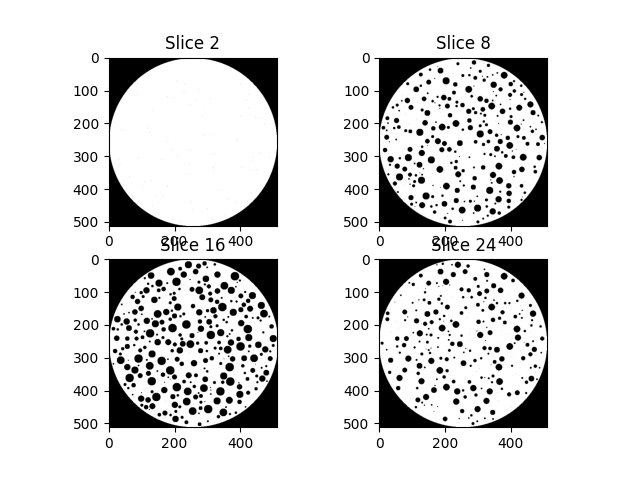
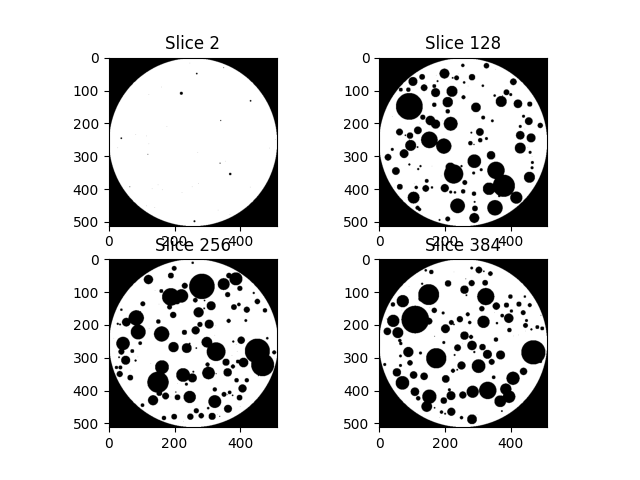
Two working methods for phantom generation

Changed region(s): [[0.1562, 0.4688, 0.4375, 0.875], [0.5938, 0.0625, 0.8438, 0.4688], [0.5938, 0.5, 0.875, 0.9062]]

diff --git a/phantoms/foam_generator.py b/phantoms/foam_generator.py
@@ -1,0 +1,123 @@
+import numpy as np
+import numpy.typing as npt
+import matplotlib.pyplot as plt
+from collections import namedtuple
+
+
+def cylinder(im: npt.NDArray, center, radius: float, intensity: float = 1):
+    assert len(im.shape) == 3, "Image must be 3D"
+    xx, yy, zz = im.shape
+    center_pixels = (int(round(center[0] * IMG_PIXELS)), int(round(center[1] * IMG_PIXELS)))
+    radius_pixels = int(round(radius * IMG_PIXELS))
+    x_coords, y_coords = np.meshgrid(np.arange(xx), np.arange(yy))
+    dist_squared = (x_coords - center_pixels[0]) ** 2 + (y_coords - center_pixels[1]) ** 2
+
+    mask = dist_squared <= radius_pixels ** 2
+    for z in range(zz):
+        im[:, :, z][mask] = intensity
+    return im
+
+
+def inside_foam(foam_center, sphere_center):
+    return (foam_center[0] - sphere_center[0])**2 + (foam_center[1] - sphere_center[1])**2 <= 0.5**2
+
+
+def distance_to_border(foam_center, foam_radius, sphere_center):
+    distance_radius_foam = foam_radius - np.sqrt((foam_center[0] - sphere_center[0]) ** 2 + (foam_center[1] - sphere_center[1]) ** 2)
+    distance_height = min(sphere_center[2], 1 - sphere_center[2])
+    return np.min([distance_radius_foam, distance_height]) - 1 / IMG_PIXELS
+
+
+def distances_centers(buffer, sphere_center, overlap: bool = False):
+    distance_border = distance_to_border((0.5, 0.5), 0.5, sphere_center)
+    if distance_border <= 0:
+        return None
+    distances = [distance_border]
+
+    for s in buffer:
+        dist_radius = np.sqrt((s.center_x - sphere_center[0]) ** 2 + (s.center_y - sphere_center[1]) ** 2 + (s.center_z - sphere_center[2]) ** 2)
+        dist = max(dist_radius - s.radius, 0)
+        if overlap:
+            dist = dist * (1 + np.random.rand() * 3)
+        if dist <= 0:
+            return None
+        distances.append(dist)
+    return distances
+
+
+def print_sphere(im, center, radius):
+    center_pixels = (int(round(center[0] * IMG_PIXELS)), int(round(center[1] * IMG_PIXELS)), int(round(center[2] * IMG_PIXELS)))
+    radius_pixels = int(round(radius * IMG_PIXELS))
+
+    for z in range(center_pixels[2] - radius_pixels, center_pixels[2] + radius_pixels + 1):
+        for x in range(center_pixels[0] - radius_pixels, center_pixels[0] + radius_pixels + 1):
+            for y in range(center_pixels[1] - radius_pixels, center_pixels[1] + radius_pixels + 1):
+                if (x - center_pixels[0])**2 + (y - center_pixels[1])**2 + (z - center_pixels[2])**2 <= radius_pixels**2:
+                    im[x][y][z] = 0
+    return im
+
+
+NUM_SHPERES = 5000
+
+IMG_PIXELS = 512
+image = np.zeros((IMG_PIXELS, IMG_PIXELS, IMG_PIXELS))
+
+PROB_OVERLAP = 0.1
+sphere = namedtuple("sphere", ["center_x", "center_y", "center_z", "radius"])
+
+# Generate the big cylinder
+image = cylinder(image, (0.5, 0.5), 0.5, intensity=1)
+print("Finished cylinder")
+
+buffer = []
+generated_spheres = 0
+
+while generated_spheres < NUM_SHPERES:
+    sphere_center = np.random.uniform(2 / IMG_PIXELS, 1 - 2 / IMG_PIXELS, 3)
+    overlap = np.random.rand() < PROB_OVERLAP
+
+    d = distances_centers(buffer, sphere_center, overlap)
+    if d is None or not inside_foam((0.5, 0.5), (sphere_center[0], sphere_center[1])):
+        continue
+
+    min_radius = 1 / IMG_PIXELS
+    max_radius = min(min(d), 0.5 * 0.2)
+
+    sphere_radius = sphere_radius = np.random.uniform(low=min_radius, high=max_radius)
+
+    image = print_sphere(image, sphere_center, sphere_radius)
+
+    sphere_ = sphere(sphere_center[0], sphere_center[1], sphere_center[2], sphere_radius)
+    buffer.append(sphere_)
+
+    generated_spheres += 1
+    if generated_spheres % 1000 == 0:
+        print(f"Generated {generated_spheres} / {NUM_SHPERES} spheres")
+
+
+image = image.transpose(2, 0, 1)
+fig = plt.figure()
+plt.subplot(2, 2, 1)
+plt.title("Slice 2")
+plt.imshow(image[2, :, :], cmap='gray')
+plt.subplot(2, 2, 2)
+plt.title(f"Slice {IMG_PIXELS // 4}")
+plt.imshow(image[IMG_PIXELS // 4, :, :], cmap='gray')
+plt.subplot(2, 2, 3)
+plt.title(f"Slice {IMG_PIXELS // 2}")
+plt.imshow(image[IMG_PIXELS // 2, :, :], cmap='gray')
+plt.subplot(2, 2, 4)
+plt.title(f"Slice {IMG_PIXELS * 3 // 4}")
+plt.imshow(image[(3 * IMG_PIXELS) // 4, :, :], cmap='gray')
+plt.savefig("phantom_diff_levels.png")
+plt.show()
+
+fig = plt.figure()
+cnt = 0
+for i in [-1, 0, 1, 2]:
+    plt.subplot(2, 2, cnt + 1)
+    plt.title(f"Slice {i + (IMG_PIXELS // 2)}")
+    plt.imshow(image[i + (IMG_PIXELS // 2), :, :], cmap='gray')
+    cnt += 1
+plt.savefig("phantom_seq.png")
+plt.show()

diff --git a/phantoms/sparse_generator.py b/phantoms/sparse_generator.py
@@ -3,60 +3,34 @@ import numpy.typing as npt
 import matplotlib.pyplot as plt
 
 
-def cilinder(im: npt.NDArray, center, radius: int, intensity: float = 1):
+def cylinder(im: npt.NDArray, center, radius: int, intensity: float = 1):
     assert len(im.shape) == 3, "Image must be 3D"
     xx, yy, zz = im.shape
+    x_coords, y_coords = np.meshgrid(np.arange(xx), np.arange(yy))
+    dist_squared = (x_coords - center[0]) ** 2 + (y_coords - center[1]) ** 2
+
+    mask = dist_squared <= radius ** 2
     for z in range(zz):
-        print(z)
-        for x in range(xx):
-            for y in range(yy):
-                if (x - center[0])**2 + (y - center[1])**2 <= radius**2:
-                    im[x][y][z] = intensity
+        im[:, :, z][mask] = intensity
     return im
 
 
-def circle(im: npt.NDArray, center, radius: int, intensity: float = 1):
-    rows, cols = im.shape
-    for r in range(rows):
-        for c in range(cols):
-            if (r - center[0])**2 + (c - center[1])**2 <= radius**2:
-                im[r][c] = intensity
-    return im
-
-
-def add_sphere(im: npt.NDArray, center, radius: int):
+def add_sphere(im: npt.NDArray, center, radius: int, overlap):
     im = im.copy()
     for z in range(center[2] - radius, center[2] + radius + 1):
         for x in range(center[0] - radius, center[0] + radius + 1):
             for y in range(center[1] - radius, center[1] + radius + 1):
                 if (x - center[0])**2 + (y - center[1])**2 + (z - center[2])**2 <= radius**2:
-                    if im[x][y][z] == 0:
+                    if im[x][y][z] == 0 and overlap:
                         return None
                     if (x - center[0]) ** 2 + (y - center[1]) ** 2 + (z - center[2]) ** 2 <= (radius - 2) ** 2:
                         im[x][y][z] = 0
     return im
 
 
-def ellipse(im: npt.NDArray, center, width: int, height: int, intensity: float = 1):
-    for r in range(len(im)):
-        for c in range(len(im[0])):
-            if (r - center[0])**2 / (height/2)**2 + (c - center[1])**2 / (width/2)**2 <= 1:
-                im[r][c] = intensity
-    return im
-
-
-def ellipse_contour(im, center, width, height, border, intensity: float = 1):
-    for r in range(len(im)):
-        for c in range(len(im[0])):
-            first_cond = (r - center[0])**2 / (height/2)**2 + (c - center[1])**2 / (width/2)**2 <= 1
-            second_cond = (r - center[0]) ** 2 / ((height - border) / 2) ** 2 + (c - center[1]) ** 2 / (
-                    (width - border) / 2) ** 2 <= 1
-            if first_cond and not second_cond:
-                im[r][c] = intensity
-    return im
-
-
-def check_boundaries(im, center, radius):
+def check_boundaries(im, center, radius, overlap):
+    if overlap:
+        return True
     cond1 = (im[center[0] - radius, center[1], center[2]] == 0)
     cond2 = (im[center[0] + radius, center[1], center[2]] == 0)
     cond3 = (im[center[0], center[1] - radius, center[2]] == 0)
@@ -78,8 +52,10 @@ SIZES = 512
 HEIGHT = 32
 image = np.zeros((SIZES, SIZES, HEIGHT))
 
+PROB_OVERLAP = 0.1
+
 # Generate the big circle
-image = cilinder(image, (SIZES // 2, SIZES // 2), SIZES // 2, intensity=1)
+image = cylinder(image, (SIZES // 2, SIZES // 2), SIZES // 2, intensity=1)
 
 printed_circles = 0
 failed_circle = 0
@@ -89,10 +65,12 @@ while printed_circles < NUM_CIRCLES:
     rndm_radius = np.random.randint(2, high_radius)
     rndm_center = (np.random.randint(rndm_radius, SIZES - rndm_radius), np.random.randint(rndm_radius, SIZES - rndm_radius), np.random.randint(rndm_radius, HEIGHT - rndm_radius))
 
-    if not check_boundaries(image, rndm_center, rndm_radius):
+    overlap = np.random.rand() < PROB_OVERLAP
+
+    if not check_boundaries(image, rndm_center, rndm_radius, overlap):
         continue
 
-    out = add_sphere(image, rndm_center, rndm_radius)
+    out = add_sphere(image, rndm_center, rndm_radius, overlap)
 
     if out is not None:
         # Circle was added successfully, there was an empty space to put it
